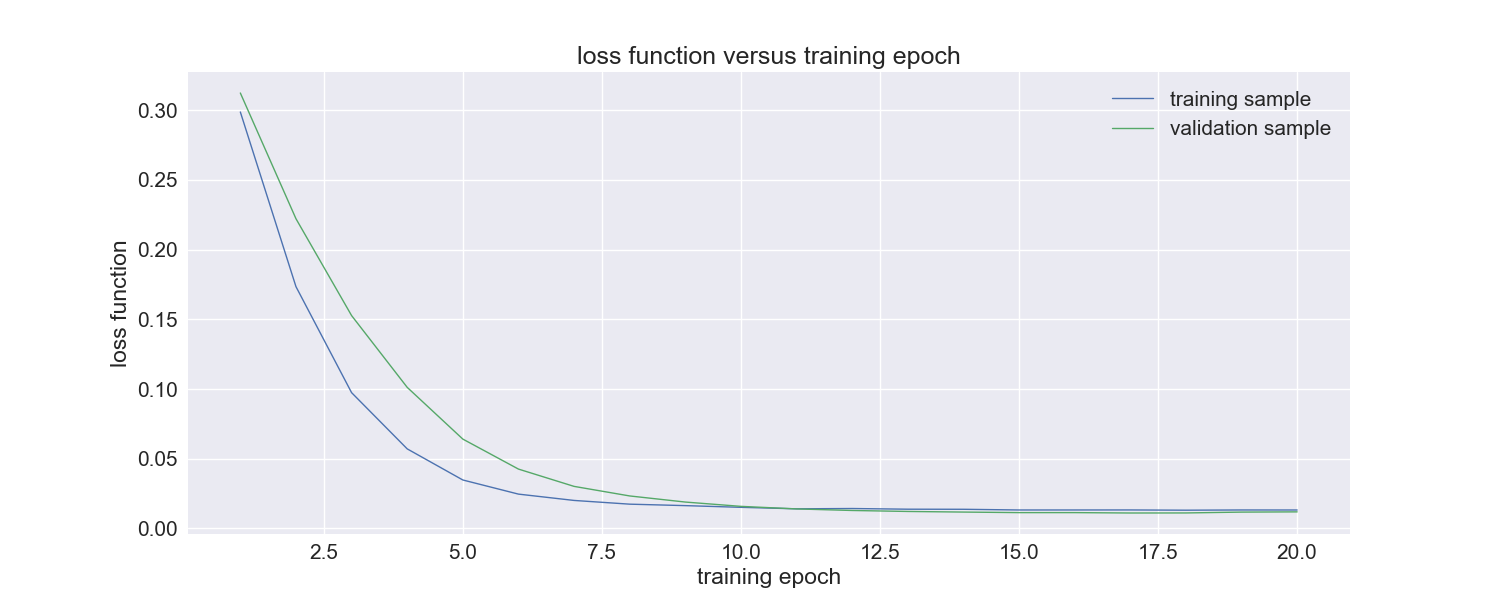
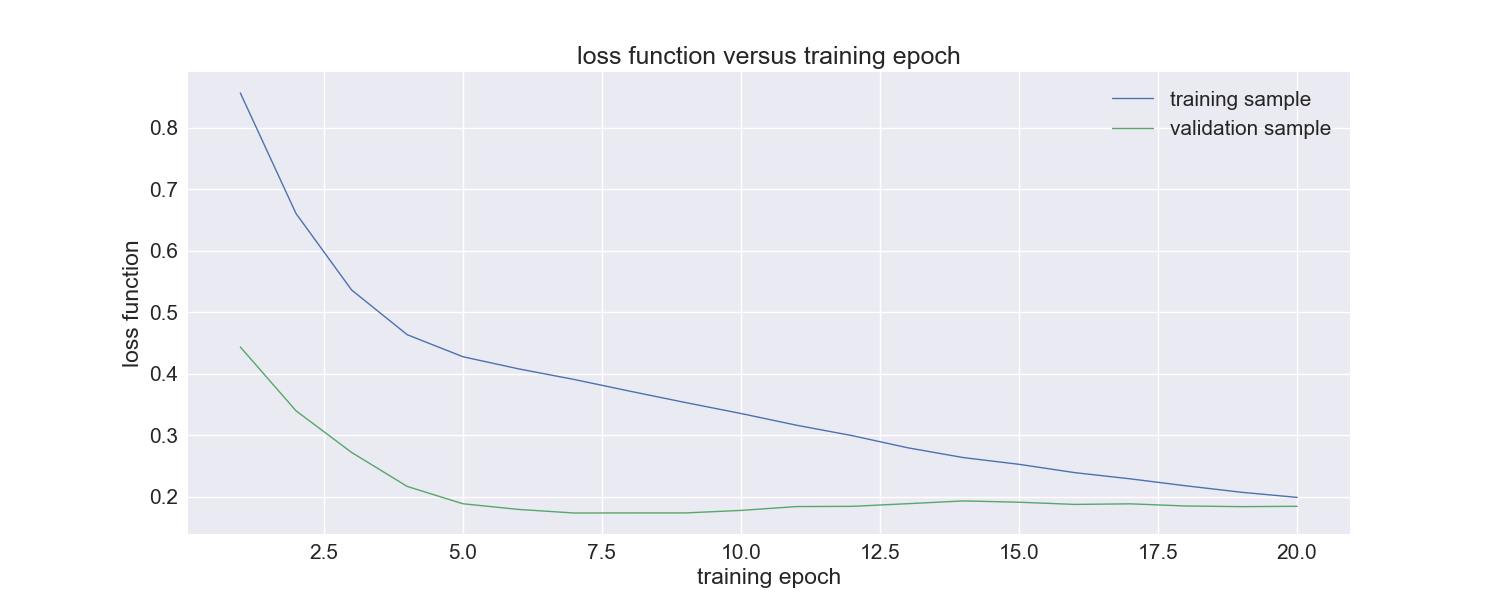
topk

diff --git a/train.py b/train.py
@@ -34,7 +34,7 @@ if (debug):
 
 #read and prep NYSE data
 from stock_picker_source.helper_fns import *
-xy, xcols, ycols = prep_xy(start_date, end_date, tickers, openers, debug=debug)
+xy, xcols, ycols = prep_xy(start_date, end_date, tickers, openers, top_k, debug=debug)
 
 #extract the x features
 x = xy[xcols]
@@ -88,7 +88,7 @@ N_outputs = y.shape[1]
 N_middle = N_inputs/2
 #N_middle = np.int(np.sqrt(N_inputs).round())
 layers = [N_inputs, N_middle, N_outputs]
-dropout_fraction = 0.01
+dropout_fraction = 0.3
 print 'layers = ', layers
 print 'dropout_fraction = ', dropout_fraction
 model = mlp_classifier(layers, dropout_fraction=dropout_fraction)
